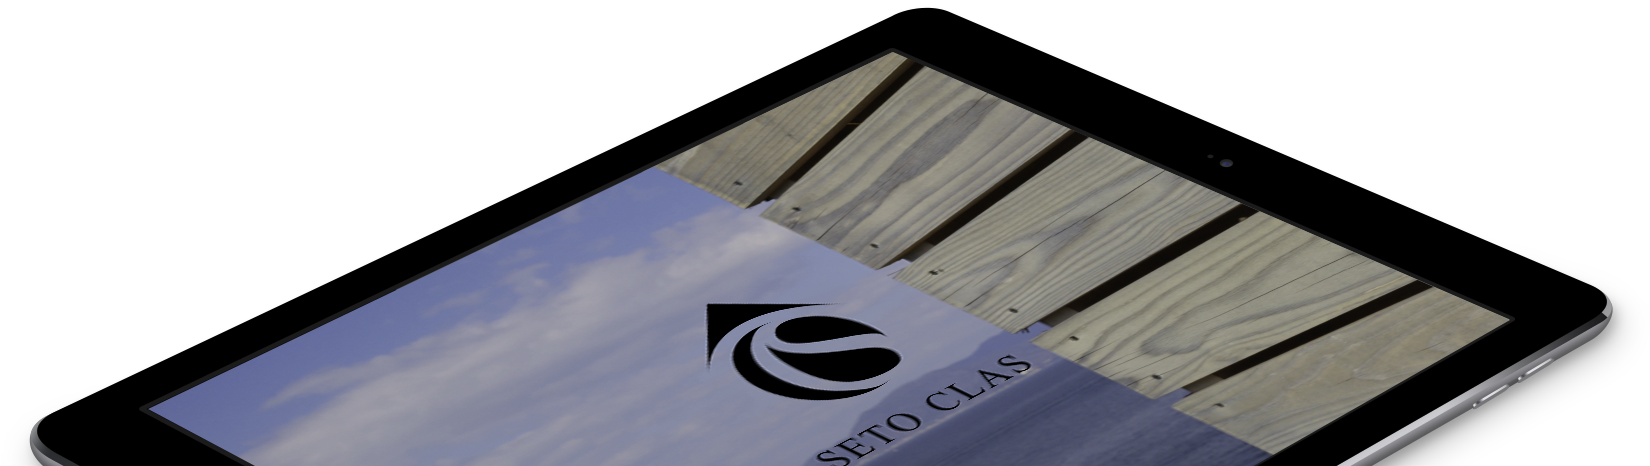
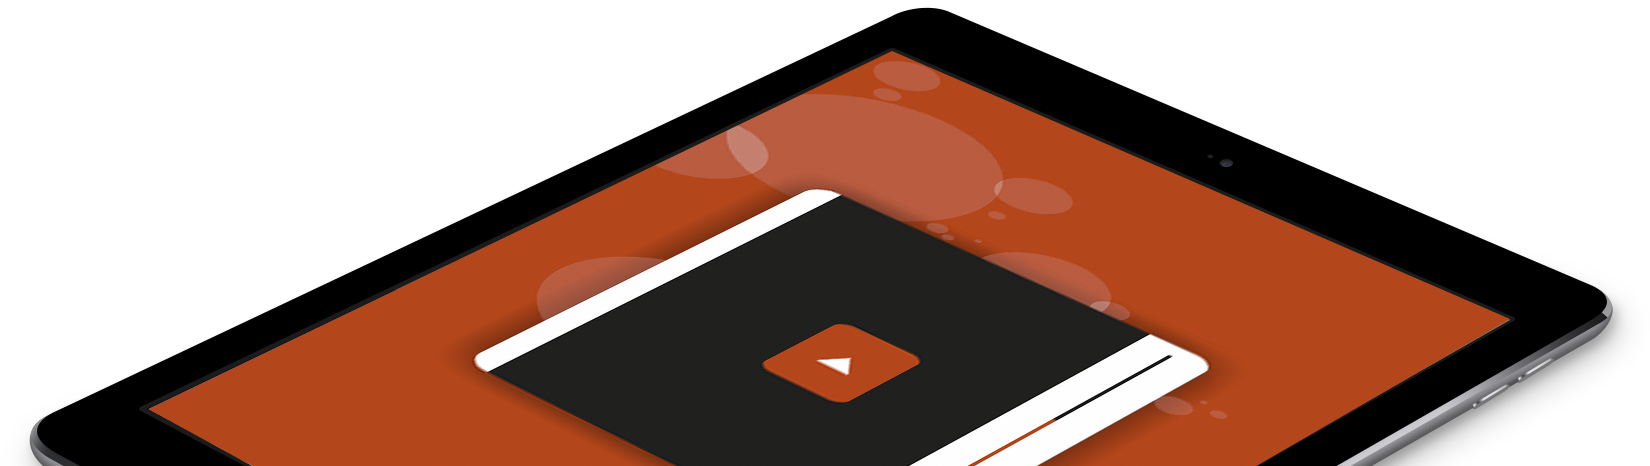
Created Video Header

diff --git a/index.html b/index.html
@@ -33,18 +33,31 @@
                 </div>
             </div>
         </nav>
-        <!-- Masthead-->
-        <header class="masthead">
-            <div class="container px-4 px-lg-5 d-flex h-100 align-items-center justify-content-center">
-                <div class="d-flex justify-content-center">
-                    <div class="text-center">
-                        <h1 class="mx-auto my-0 text-uppercase">Kagawa Creative Media</h1>
-                        <h2 class="text-white-50 mx-auto mt-2 mb-5">Visual Stories, Crafted to Inspire</h2>
-                        <a class="btn btn-primary" href="#about">Get Started</a>
-                    </div>
+        <!-- Video Header Test -->
+
+        <header>
+
+            <!-- This div is  intentionally blank. It creates the transparent black overlay over the video which you can modify in the CSS -->
+            <div class="overlay"></div>
+          
+            <!-- The HTML5 video element that will create the background video on the header -->
+            <video playsinline="playsinline" autoplay="autoplay" muted="muted" loop="loop">
+              <source src="https://res.cloudinary.com/de5m2zd8r/video/upload/v1742288206/Vidheader-1_shqwm6.mp4" type="video/mp4">
+            </video>
+          
+            <!-- The header content -->
+            <div class="container h-100">
+              <div class="d-flex h-100 text-center align-items-center">
+                <div class="w-100 text-white">
+                  <h1 class="display-3">KAGAWA CREATIVE MEDIA</h1>
+                  <p class="lead mb-0">Visual Stories, Crafted to Inspire</p>
+                  <p></p>
+                  <a class="btn btn-primary" href="#about">Get Started</a>
                 </div>
+              </div>
             </div>
-        </header>
+          </header>
+        
         <!-- About-->
         <section class="about-section text-center" id="about">
             <div class="container px-4 px-lg-5">
@@ -52,7 +65,9 @@
                     <div class="col-lg-8">
                         <h2 class="text-white mb-4">Your Brand. Enhanced.</h2>
                         <p class="text-white-50">
-                            Videos can enhance the image of your brand and change the perception by your customers.
+                            Capture attention, boost engagement, and drive sales with the power of video. 
+                            Studies show that viewers retain 95% of a message in video versus just 10% in text, and businesses using video see 49% faster revenue growth. 
+                            Let us help you harness the undeniable impact of video to achieve your business goals.
                         </p>
                     </div>
                 </div>
@@ -73,8 +88,10 @@
                     </div>
                     <div class="col-xl-4 col-lg-5">
                         <div class="featured-text text-center text-lg-left">
-                            <h4>Real Estate</h4>
-                            <p class="text-black-50 mb-0">Copy about real estate, highlighting why it is crucial to have videos.</p>
+                            <h4>Video</h4>
+                            <p class="text-black-50 mb-0">Elevate your visual storytelling with our comprehensive videography services. 
+                                We craft compelling promotional videos, capture stunning aerial perspectives with state-of-the-art drone technology, 
+                                and create engaging social media content that connects your brand with your audience.</p>
                         </div>
                     </div>
                 </div>
@@ -89,8 +106,10 @@
                         <div class="bg-black text-center h-100 project">
                             <div class="d-flex h-100">
                                 <div class="project-text w-100 my-auto text-center text-lg-left">
-                                    <h4 class="text-white">Architecture</h4>
-                                    <p class="mb-0 text-white-50">Copy about architectural videos and why one should have them.</p>
+                                    <h4 class="text-white">Photography</h4>
+                                    <p class="mb-0 text-white-50">Transform spaces into visual narratives through our expert photography. 
+                                        Our specialized real estate and architectural photography services showcase properties in their most compelling light, 
+                                        featuring high-resolution ground and aerial imagery that highlights every detail and unique characteristic.</p>
                                 </div>
                             </div>
                         </div>
@@ -107,8 +126,10 @@
                         <div class="bg-black text-center h-100 project">
                             <div class="d-flex h-100">
                                 <div class="project-text w-100 my-auto text-center text-lg-right">
-                                    <h4 class="text-white">Travel</h4>
-                                    <p class="mb-0 text-white-50">Copy abot creating travel videos and how they can help bring clients.</p>
+                                    <h4 class="text-white">Design</h4>
+                                    <p class="mb-0 text-white-50">Strategic visual branding that communicates your business's essence. 
+                                        We deliver innovative web design and comprehensive branding solutions that create memorable, professional identities, 
+                                        ensuring your digital presence is as impressive and strategic as your business objectives.</p>
                                 </div>
                             </div>
                         </div>
@@ -195,11 +216,12 @@
                         </div>
                     </div>
                 </div>
+                <!-- 
                 <div class="social d-flex justify-content-center">
                     <a class="mx-2" href="#!"><i class="fab fa-twitter"></i></a>
                     <a class="mx-2" href="#!"><i class="fab fa-facebook-f"></i></a>
                     <a class="mx-2" href="#!"><i class="fab fa-github"></i></a>
-                </div>
+                </div> -->
             </div>
         </section>
         <!-- Footer-->

diff --git a/css/styles.css b/css/styles.css
@@ -11217,3 +11217,57 @@ body {
   width: 100%; 
   height: 100%; 
 }
+
+header {
+  position: relative;
+  background-color: black;
+  height: 75vh;
+  min-height: 25rem;
+  width: 100%;
+  overflow: hidden;
+}
+
+header video {
+  position: absolute;
+  top: 50%;
+  left: 50%;
+  min-width: 100%;
+  min-height: 100%;
+  width: auto;
+  height: auto;
+  z-index: 0;
+  -ms-transform: translateX(-50%) translateY(-50%);
+  -moz-transform: translateX(-50%) translateY(-50%);
+  -webkit-transform: translateX(-50%) translateY(-50%);
+  transform: translateX(-50%) translateY(-50%);
+}
+
+header .container {
+  position: relative;
+  z-index: 2;
+}
+
+header .overlay {
+  position: absolute;
+  top: 0;
+  left: 0;
+  height: 100%;
+  width: 100%;
+  background-color: black;
+  opacity: 0.5;
+  z-index: 1;
+}
+
+/* Media Query for devices withi coarse pointers and no hover functionality */
+
+/* This will use a fallback image instead of a video for devices that commonly do not support the HTML5 video element */
+
+@media (pointer: coarse) and (hover: none) {
+  header {
+    background: url('https://source.unsplash.com/XT5OInaElMw/1600x900') black no-repeat center center scroll;
+  }
+
+  header video {
+    display: none;
+  }
+}
